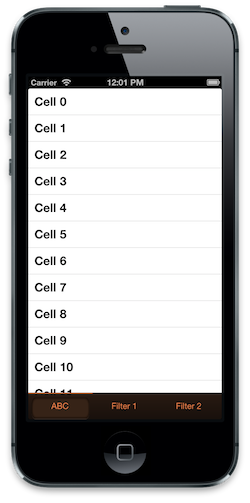
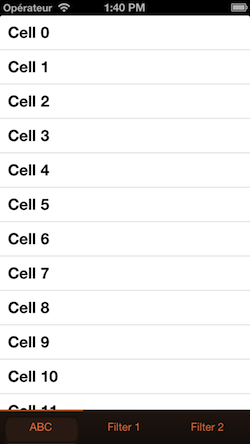
Add new properties and updated example
You can set a top selected background color and the associated height

diff --git a/Classes/DMFilterView.m b/Classes/DMFilterView.m
@@ -17,6 +17,7 @@ const CGFloat kAnimationSpeed = 0.20;
 @property (nonatomic, strong) UIImageView *backgroundView;
 @property (nonatomic, strong) UIView *selectedBackgroundView;
 @property (nonatomic, strong) UIImageView *selectedBackgroundImageView;
+@property (nonatomic, strong) UIView *selectedTopBackgroundView;
 
 - (void)updateButtonsStyle;
 @end
@@ -47,6 +48,11 @@ const CGFloat kAnimationSpeed = 0.20;
         _selectedBackgroundImageView = [[UIImageView alloc]initWithFrame:self.selectedBackgroundView.frame];
         [_selectedBackgroundImageView setImage:[UIImage imageNamed:@"tabbar_select"]];
         [self.selectedBackgroundView addSubview:self.selectedBackgroundImageView];
+        _selectedTopBackgroundView = [[UIView alloc]initWithFrame:CGRectMake(0,
+                                                                             0,
+                                                                             self.selectedBackgroundView.frame.size.width,
+                                                                             10)];
+        [self.selectedBackgroundView addSubview:self.selectedTopBackgroundView];
         [self addSubview:self.selectedBackgroundView];
         for (NSString *string in strings) {
             UIButton *button = [UIButton buttonWithType:UIButtonTypeCustom];
@@ -172,8 +178,6 @@ const CGFloat kAnimationSpeed = 0.20;
 #pragma mark - Background
 - (void)setBackgroundImage:(UIImage *)backgroundImage
 {
-    if (_backgroundImage == backgroundImage)
-        return;
     _backgroundImage = backgroundImage;
     [self.backgroundView setHidden:NO];
     [self.backgroundView setImage:_backgroundImage];
@@ -185,37 +189,46 @@ const CGFloat kAnimationSpeed = 0.20;
     [super setBackgroundColor:backgroundColor];
 }
 
--(void)setSelectedBackgroundImage:(UIImage *)selectedBackgroundImage
+- (void)setSelectedBackgroundImage:(UIImage *)selectedBackgroundImage
 {
-    if(_selectedBackgroundImage == selectedBackgroundImage)
-        return;
+    self.selectedBackgroundColor = nil;
+    [self.selectedTopBackgroundView setHidden:YES];
     [self.selectedBackgroundImageView setHidden:NO];
     [self.selectedBackgroundImageView setImage:selectedBackgroundImage];
     _selectedBackgroundImage = selectedBackgroundImage;
 }
 
--(void)setSelectedBackgroundColor:(UIColor *)selectedBackgroundColor
+- (void)setSelectedBackgroundColor:(UIColor *)selectedBackgroundColor
 {
-    if(_selectedBackgroundColor == selectedBackgroundColor)
-        return;
     [self.selectedBackgroundImageView setHidden:YES];
     [self.selectedBackgroundView setBackgroundColor:selectedBackgroundColor];
     _selectedBackgroundColor = selectedBackgroundColor;
 }
 
-#pragma mark - buttons style
--(void)setTitlesColor:(UIColor *)titlesColor
+- (void)setSelectedTopBackgroundColor:(UIColor *)selectedTopBackgroundColor
 {
-    if(_titlesColor == titlesColor)
-        return;
+    [self.selectedTopBackgroundView setHidden:NO];
+    [self.selectedTopBackgroundView setBackgroundColor:selectedTopBackgroundColor];
+    _selectedTopBackgroundColor = selectedTopBackgroundColor;
+}
+
+- (void)setSelectedTopBacktroundColorHeight:(CGFloat)selectedTopBacktroundColorHeight
+{
+    CGRect frame = self.selectedTopBackgroundView.frame;
+    frame.size.height = selectedTopBacktroundColorHeight;
+    [self.selectedTopBackgroundView setFrame:frame];
+    _selectedTopBacktroundColorHeight = selectedTopBacktroundColorHeight;
+}
+
+#pragma mark - buttons style
+- (void)setTitlesColor:(UIColor *)titlesColor
+{
     _titlesColor = titlesColor;
     [self updateButtonsStyle];
 }
 
--(void)setTitlesFont:(UIFont *)titlesFont
+- (void)setTitlesFont:(UIFont *)titlesFont
 {
-    if(_titlesFont == titlesFont)
-        return;
     _titlesFont = titlesFont;
     [self updateButtonsStyle];
 }

diff --git a/DMFilterView/DMViewController.m b/DMFilterView/DMViewController.m
@@ -9,7 +9,9 @@
 #import "DMViewController.h"
 
 @interface DMViewController ()
-
+{
+    BOOL _isColors;
+}
 @end
 
 @implementation DMViewController
@@ -17,6 +19,7 @@
 - (void)viewDidLoad
 {
     [super viewDidLoad];
+    _isColors = NO;
     _tableView = [[UITableView alloc]initWithFrame:self.view.frame style:UITableViewStylePlain];
     [self.tableView setDelegate:self];
     [self.tableView setDataSource:self];
@@ -60,7 +63,25 @@
 
 - (void)tableView:(UITableView *)tableView didSelectRowAtIndexPath:(NSIndexPath *)indexPath
 {
-
+    if (_isColors){
+        [self.filterView setSelectedBackgroundImage:[UIImage imageNamed:@"tabbar_select"]];
+        [self.filterView setBackgroundImage:[UIImage imageNamed:@"tabbar"]];
+        UIColor *mColor = [UIColor colorWithRed:240/255.0
+                                          green:130/255.0
+                                           blue:76/255.0
+                                          alpha:1.0];
+        [self.filterView setTitlesColor:mColor];
+        [self.filterView setTitlesFont:[UIFont systemFontOfSize:14]];
+    }
+    else{
+        [self.filterView setSelectedTopBackgroundColor:[UIColor grayColor]];
+        [self.filterView setSelectedTopBacktroundColorHeight:5];
+        [self.filterView setSelectedBackgroundColor:[UIColor lightGrayColor]];
+        [self.filterView setBackgroundColor:[UIColor underPageBackgroundColor]];
+        [self.filterView setTitlesFont:[UIFont boldSystemFontOfSize:19]];
+        [self.filterView setTitlesColor:[UIColor blueColor]];
+    }
+    _isColors =! _isColors;
 }
 
 #pragma mark - ScrollView delegate
@@ -81,12 +102,6 @@
 - (void)filterView:(DMFilterView *)filterView didSelectedAtIndex:(NSInteger)index
 {
     NSLog(@"%d", index);
-    /*
-    [self.filterView setSelectedBackgroundColor:[UIColor yellowColor]];
-    [self.filterView setBackgroundColor:[UIColor greenColor]];
-    [self.filterView setTitlesFont:[UIFont boldSystemFontOfSize:19]];
-    [self.filterView setTitlesColor:[UIColor greenColor]];
-     */
 }
 
 

diff --git a/Classes/DMFilterView.h b/Classes/DMFilterView.h
@@ -40,9 +40,15 @@ extern const CGFloat kFilterViewHeight;
 //You can set a background imagen the background image will remove the background color.
 @property (nonatomic, strong) UIImage *backgroundImage;
 //The selected background image behind the selected button.
+//The selected background color is set to nil if you set an image
 @property (nonatomic, strong) UIImage *selectedBackgroundImage;
 //The selected background color behind the selected button
 @property (nonatomic, strong) UIColor *selectedBackgroundColor;
+//The selected background color at the top of the selected item
+//Is set to nil if you set a selected backround image
+@property (nonatomic, strong) UIColor *selectedTopBackgroundColor;
+//The selected background top color height;
+@property (nonatomic) CGFloat selectedTopBacktroundColorHeight;
 //The buttons title color
 @property (nonatomic, strong) UIColor *titlesColor;
 //The buttons font
